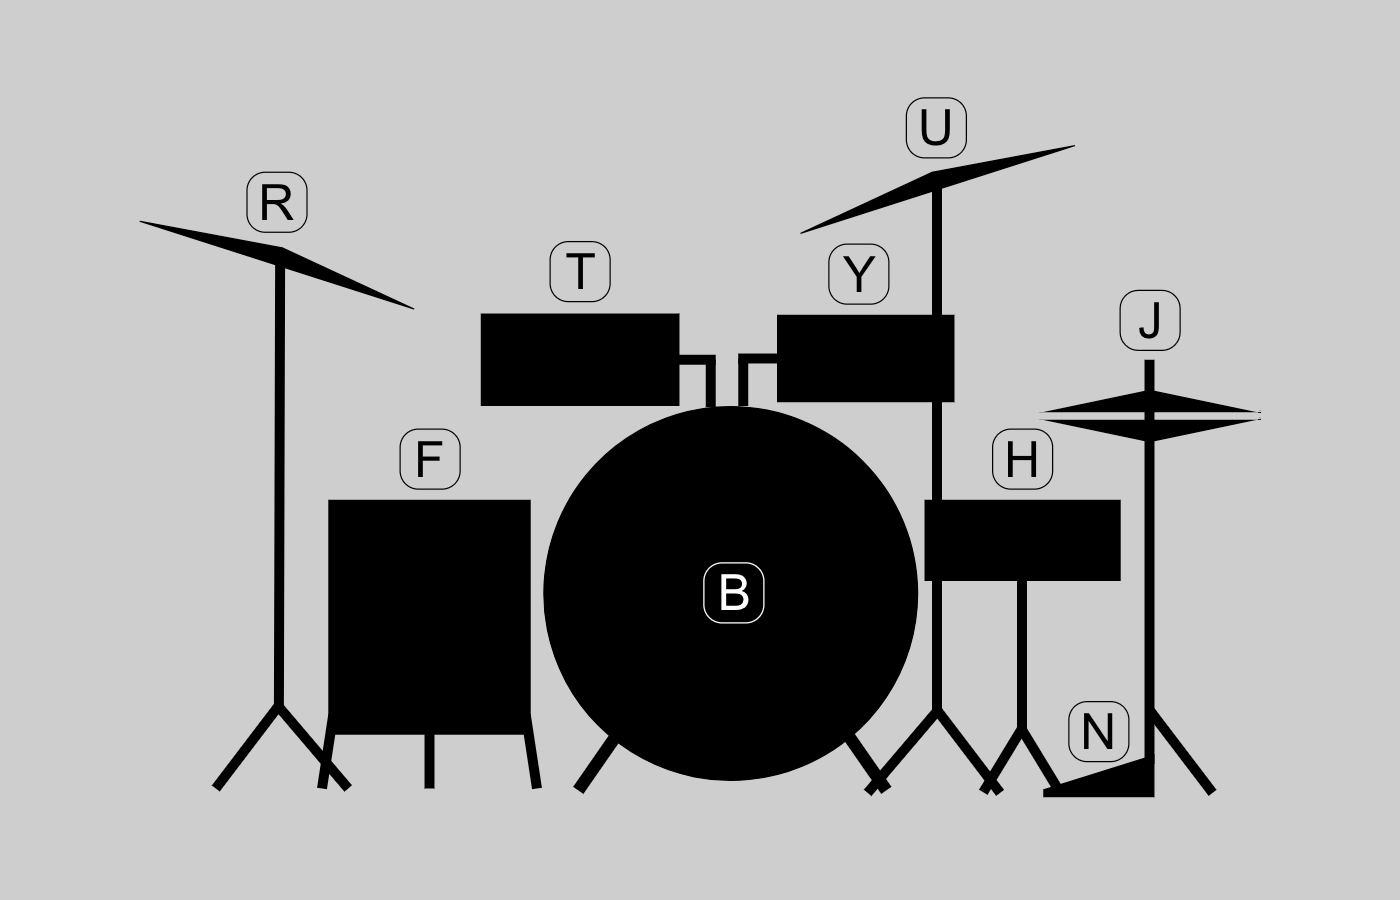
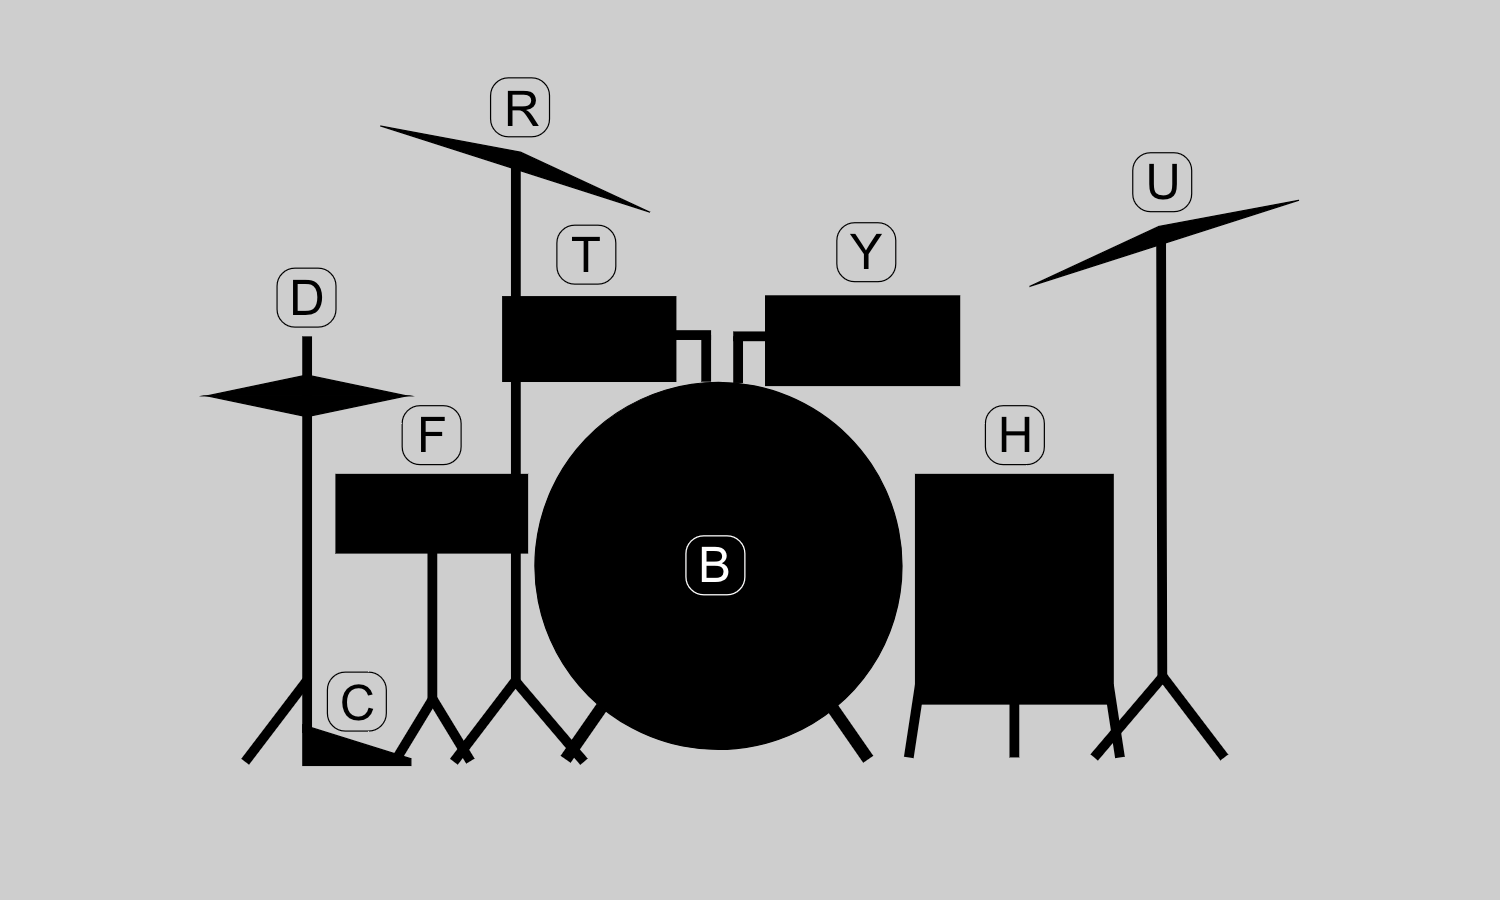
fix kit orientation to user

Changed region(s): [[0.1229, 0.0933, 0.8907, 0.9022], [0.4607, 0.5911, 0.5529, 0.6844]]

diff --git a/src/pages/index.html b/src/pages/index.html
@@ -5,104 +5,104 @@
           <defs>
               <style>.cls-1,.cls-2,.cls-5,.cls-8{fill:none;}.cls-1,.cls-2,.cls-3,.cls-5{stroke:#000;}.cls-1,.cls-2,.cls-3,.cls-5,.cls-8{stroke-miterlimit:10;}.cls-1{stroke-width:10px;}.cls-2{stroke-width:8px;}.cls-4,.cls-6,.cls-7{font-size:40px;font-family:ArialMT, Arial;}.cls-6{letter-spacing:-0.02em;}.cls-7{fill:#fff;}.cls-8{stroke:#fff;}</style>
           </defs>
-          <title>Artboard 1</title>
+          <title>Drum Kit</title>
           <g id="drumset">
               <g id="kick">
-                  <line class="cls-1" x1="636" y1="593" x2="665.5" y2="635.5" />
-                  <line class="cls-1" x1="448.5" y1="593" x2="419" y2="635.5" />
-                  <path d="M541,627.5c-82.43,0-149.5-67.07-149.5-149.5S458.57,328.5,541,328.5,690.5,395.57,690.5,478,623.43,627.5,541,627.5Z" />
-                  <path d="M541,329a149,149,0,1,1-105.36,43.64A148,148,0,0,1,541,329m0-1A150,150,0,1,0,691,478,150,150,0,0,0,541,328Z" />
+                  <line class="cls-1" x1="390.09" y1="593" x2="360.59" y2="635.5" />
+                  <line class="cls-1" x1="577.59" y1="593" x2="607.09" y2="635.5" />
+                  <path d="M485.09,627.5c-82.43,0-149.5-67.07-149.5-149.5s67.07-149.5,149.5-149.5,149.5,67.07,149.5,149.5S567.53,627.5,485.09,627.5Z" />
+                  <path d="M485.09,329a149,149,0,1,1-105.36,43.64A148,148,0,0,1,485.09,329m0-1a150,150,0,1,0,150,150,150,150,0,0,0-150-150Z" />
               </g>
               <g id="low-tom">
-                  <rect id="_rectangle_" data-name="&lt;rectangle&gt;" x="341" y="254" width="159" height="74" />
+                  <rect id="_rectangle_" data-name="&lt;rectangle&gt;" x="526.09" y="254" width="159" height="74" transform="translate(1211.19 582) rotate(-180)" />
               </g>
               <g id="hi-tom">
-                  <rect id="_rectangle_2" data-name="&lt;rectangle&gt;" x="578" y="255" width="142" height="70" />
+                  <rect id="_rectangle_2" data-name="&lt;rectangle&gt;" x="306.09" y="255" width="142" height="70" transform="translate(754.19 580) rotate(-180)" />
               </g>
               <g id="snare">
-                  <rect x="696" y="403" width="157" height="65" />
+                  <rect x="173.09" y="403" width="157" height="65" transform="translate(503.19 871) rotate(-180)" />
               </g>
               <g id="floor-tom">
-                  <rect x="219" y="403" width="162" height="188" />
-                  <line class="cls-2" x1="223" y1="575" x2="214" y2="634" />
-                  <line class="cls-2" x1="300" y1="575" x2="300" y2="634" />
-                  <line class="cls-2" x1="377" y1="575" x2="386" y2="634" />
+                  <rect x="645.09" y="403" width="162" height="188" transform="translate(1452.19 994) rotate(-180)" />
+                  <line class="cls-2" x1="803.09" y1="575" x2="812.09" y2="634" />
+                  <line class="cls-2" x1="726.09" y1="575" x2="726.09" y2="634" />
+                  <line class="cls-2" x1="649.09" y1="575" x2="640.09" y2="634" />
               </g>
               <g id="ride">
-                  <polygon class="cls-3" points="182.34 201.53 287.29 250.27 68.59 180.28 182.34 201.53" />
+                  <polygon class="cls-3" points="843.75 201.53 738.8 250.27 957.5 180.28 843.75 201.53" />
               </g>
               <g id="crash">
-                  <polygon class="cls-3" points="702.16 141.03 597.21 189.77 815.91 119.78 702.16 141.03" />
+                  <polygon class="cls-3" points="323.94 141.03 428.89 189.77 210.19 119.78 323.94 141.03" />
               </g>
               <g id="hi-hat-pedal">
-                  <polygon id="pedal" class="cls-3" points="791.5 640.5 879.5 640.5 879.5 607.5 791.5 635.01 791.5 640.5" />
+                  <polygon id="pedal" class="cls-3" points="234.59 640.5 146.59 640.5 146.59 607.5 234.59 635.01 234.59 640.5" />
               </g>
               <g id="hi-hat">
-                  <polygon id="hi-hat-bottom" class="cls-3" points="876.24 356.5 957.5 339.5 794.98 339.5 876.24 356.5" />
-                  <polygon id="hi-hat-top" class="cls-3" points="876.24 315.5 957.5 332.5 794.98 332.5 876.24 315.5" />
+                  <polygon id="hi-hat-bottom" class="cls-3" points="149.86 356.5 68.59 339.5 231.12 339.5 149.86 356.5" />
+                  <polygon id="hi-hat-top" class="cls-3" points="149.86 315.5 68.59 332.5 231.12 332.5 149.86 315.5" />
               </g>
               <g id="tom-stands">
-                  <line class="cls-2" x1="525" y1="329" x2="525" y2="291" />
-                  <line class="cls-2" x1="489" y1="291" x2="529" y2="291" />
-                  <line class="cls-2" x1="551" y1="328" x2="551" y2="290" />
-                  <line class="cls-2" x1="547" y1="290" x2="614" y2="290" />
+                  <line class="cls-2" x1="501.09" y1="329" x2="501.09" y2="291" />
+                  <line class="cls-2" x1="537.09" y1="291" x2="497.09" y2="291" />
+                  <line class="cls-2" x1="475.09" y1="328" x2="475.09" y2="290" />
+                  <line class="cls-2" x1="479.09" y1="290" x2="412.09" y2="290" />
               </g>
               <g id="snare-stand">
-                  <line class="cls-2" x1="774" y1="459" x2="774" y2="591" />
-                  <line class="cls-2" x1="774" y1="586" x2="743" y2="637" />
-                  <line class="cls-2" x1="774" y1="587" x2="805" y2="638" />
+                  <line class="cls-2" x1="252.09" y1="459" x2="252.09" y2="591" />
+                  <line class="cls-2" x1="252.09" y1="586" x2="283.09" y2="637" />
+                  <line class="cls-2" x1="252.09" y1="587" x2="221.09" y2="638" />
               </g>
               <g id="ride-stand">
-                  <line class="cls-2" x1="180.5" y1="212.5" x2="179.5" y2="574.5" />
-                  <line class="cls-2" x1="180" y1="567" x2="129" y2="634" />
-                  <line class="cls-2" x1="178" y1="567" x2="235" y2="634" />
+                  <line class="cls-2" x1="845.59" y1="212.5" x2="846.59" y2="574.5" />
+                  <line class="cls-2" x1="846.09" y1="567" x2="897.09" y2="634" />
+                  <line class="cls-2" x1="848.09" y1="567" x2="791.09" y2="634" />
               </g>
               <g id="crash-stand">
-                  <line class="cls-2" x1="706" y1="149" x2="706" y2="578" />
-                  <line class="cls-2" x1="705.5" y1="570.5" x2="756.5" y2="637.5" />
-                  <line class="cls-2" x1="707.5" y1="570.5" x2="650.5" y2="637.5" />
+                  <line class="cls-2" x1="320.09" y1="149" x2="320.09" y2="578" />
+                  <line class="cls-2" x1="320.59" y1="570.5" x2="269.59" y2="637.5" />
+                  <line class="cls-2" x1="318.59" y1="570.5" x2="375.59" y2="637.5" />
               </g>
               <g id="hi-hat-stand">
-                  <line class="cls-2" x1="876" y1="291" x2="876" y2="614" />
-                  <line class="cls-2" x1="875.5" y1="570.5" x2="926.5" y2="637.5" />
+                  <line class="cls-2" x1="150.09" y1="291" x2="150.09" y2="614" />
+                  <line class="cls-2" x1="150.6" y1="570.5" x2="99.6" y2="637.5" />
               </g>
           </g>
           <g id="keys">
               <g id="key-82">
-                  <text class="cls-4" transform="translate(163 179)">R</text>
-                  <rect class="cls-5" x="154" y="141" width="48" height="48" rx="14.55" ry="14.55" />
+                  <text class="cls-4" transform="translate(310.5 119.5)">R</text>
+                  <rect class="cls-5" x="299.5" y="80.5" width="48" height="48" rx="14.55" ry="14.55" transform="translate(647 209) rotate(-180)" />
               </g>
               <g id="key-70">
-                  <text class="cls-4" transform="translate(287.5 384.5)">F</text>
-                  <rect class="cls-5" x="276.5" y="346.5" width="48" height="48" rx="14.55" ry="14.55" />
+                  <text class="cls-4" transform="translate(239.5 385.5)">F</text>
+                  <rect class="cls-5" x="227.5" y="347.5" width="48" height="48" rx="14.55" ry="14.55" transform="translate(503 743) rotate(-180)" />
               </g>
               <g id="key-84">
-                  <text class="cls-6" transform="translate(408.5 234.5)">T</text>
-                  <rect class="cls-5" x="396.5" y="196.5" width="48" height="48" rx="14.55" ry="14.55" />
+                  <text class="cls-6" transform="matrix(-1, 0, 0, 1, 389.5, 238.5)">T</text>
+                  <rect class="cls-5" x="353.5" y="200.5" width="48" height="48" rx="14.55" ry="14.55" transform="translate(755 449) rotate(-180)" />
               </g>
               <g id="key-89">
-                  <text class="cls-6" transform="translate(630.5 236.5)">Y</text>
-                  <rect class="cls-5" x="619.5" y="198.5" width="48" height="48" rx="14.55" ry="14.55" />
+                  <text class="cls-6" transform="matrix(-1, 0, 0, 1, 618.5, 236.5)">Y</text>
+                  <rect class="cls-5" x="581.5" y="198.5" width="48" height="48" rx="14.55" ry="14.55" transform="translate(1211 445) rotate(-180)" />
               </g>
               <g id="key-72">
-                  <text class="cls-4" transform="translate(759.5 384.5)">H</text>
-                  <rect class="cls-5" x="750.5" y="346.5" width="48" height="48" rx="14.55" ry="14.55" />
+                  <text class="cls-4" transform="matrix(-1, 0, 0, 1, 741.5, 385.5)">H</text>
+                  <rect class="cls-5" x="702.5" y="347.5" width="48" height="48" rx="14.55" ry="14.55" transform="translate(1453 743) rotate(-180)" />
               </g>
-              <g id="key-78">
-                  <text class="cls-4" transform="translate(820.5 602.5)">N</text>
-                  <rect class="cls-5" x="811.5" y="564.5" width="48" height="48" rx="14.55" ry="14.55" />
+              <g id="key-67">
+                  <text class="cls-4" transform="translate(176.59 603.5)">C</text>
+                  <rect class="cls-5" x="166.59" y="564.5" width="48" height="48" rx="14.55" ry="14.55" transform="translate(381.19 1177) rotate(-180)" />
               </g>
-              <g id="key-74">
-                  <text class="cls-4" transform="translate(866.5 273.5)">J</text>
-                  <rect class="cls-5" x="852.5" y="235.5" width="48" height="48" rx="14.55" ry="14.55" />
+              <g id="key-68">
+                  <text class="cls-4" transform="translate(135.59 273.5)">D</text>
+                  <rect class="cls-5" x="125.59" y="235.5" width="48" height="48" rx="14.55" ry="14.55" transform="translate(299.19 519) rotate(-180)" />
               </g>
               <g id="key-85">
-                  <text class="cls-4" transform="translate(690.5 119.5)">U</text>
-                  <rect class="cls-5" x="681.5" y="81.5" width="48" height="48" rx="14.55" ry="14.55" />
+                  <text class="cls-4" transform="matrix(-1, 0, 0, 1, 861.5, 179.5)">U</text>
+                  <rect class="cls-5" x="822.5" y="141.5" width="48" height="48" rx="14.55" ry="14.55" transform="translate(1693 331) rotate(-180)" />
               </g>
               <g id="key-66">
-                  <text class="cls-7" transform="translate(530.5 491.5)">B</text>
-                  <rect class="cls-8" x="519.5" y="453.5" width="48" height="48" rx="14.55" ry="14.55" />
+                  <text class="cls-7" transform="translate(468.59 491.5)">B</text>
+                  <rect class="cls-8" x="458.59" y="453.5" width="48" height="48" rx="14.55" ry="14.55" transform="translate(965.19 955) rotate(-180)" />
               </g>
           </g>
       </svg>

diff --git a/src/assets/js/app.js b/src/assets/js/app.js
@@ -359,31 +359,31 @@ $(document).ready(function() {
 		var thisKeyID = 'key-' + e.keyCode;
 		var thisKey = document.getElementById(thisKeyID);
 		switch (e.keyCode) {
-			case 82:
+			case 85:
 				ride();
 				break;
-			case 85:
+			case 82:
 				crash();
 				break;
-			case 74:
+			case 68:
 				hiHat();
 				break;
-			case 78:
+			case 67:
 				toggleHiHat();
 				break;
-			case 72:
+			case 70:
 				snare();
 				break;
 			case 66:
 				kick();
 				break;
-			case 70:
+			case 72:
 				floorTom();
 				break;
-			case 84:
+			case 89:
 				lowTom();
 				break;
-			case 89:
+			case 84:
 				hiTom();
 				break;
 		}
